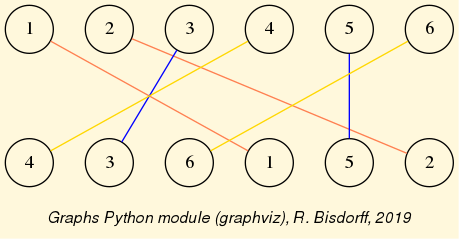
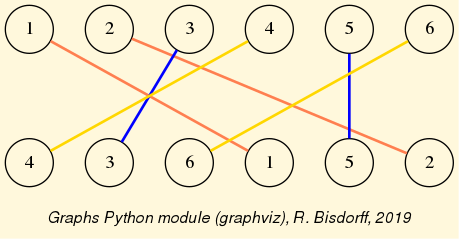
Adding a permutation graph constructor to the graphs module
git-svn-id: http://leopold-loewenheim.uni.lu/svn/repos/Digraph3@2938 1edaa99d-39e4-4cdb-8da2-0a4aeb6909dc

diff --git a/graphs.py b/graphs.py
@@ -1192,7 +1192,8 @@ class Graph(object):
                     colorKey = self.vertices[vertexkeys[i]]['color']
                 arrowFormat = \
                         edge0 = edge+'-> n'+str(n+i+1) +\
-                ' [dir=both, color=%s, arrowhead=none, arrowtail=none] ;\n'\
+                ' [dir=both, color=%s, style="setlinewidth(2)",\
+                              arrowhead=none, arrowtail=none] ;\n'\
                     % colors[colorKey]
 ##                except KeyError:
 ##                    arrowFormat = \

diff --git a/test/noseTestsGraph.py b/test/noseTestsGraph.py
@@ -189,6 +189,7 @@ def testPermutationGraphs():
     g.exportPermutationGraphViz()
     g.computeMinimalVertexColoring(Comments=True,Debug=True)
     g.exportGraphViz(WithVertexColoring=True)
+    g.exportPermutationGraphViz(WithEdgeColoring=True)
     rg = RandomPermutationGraph(order=6,seed=100)
     print(rg)
     print('permutation:',rg.computePermutation())
